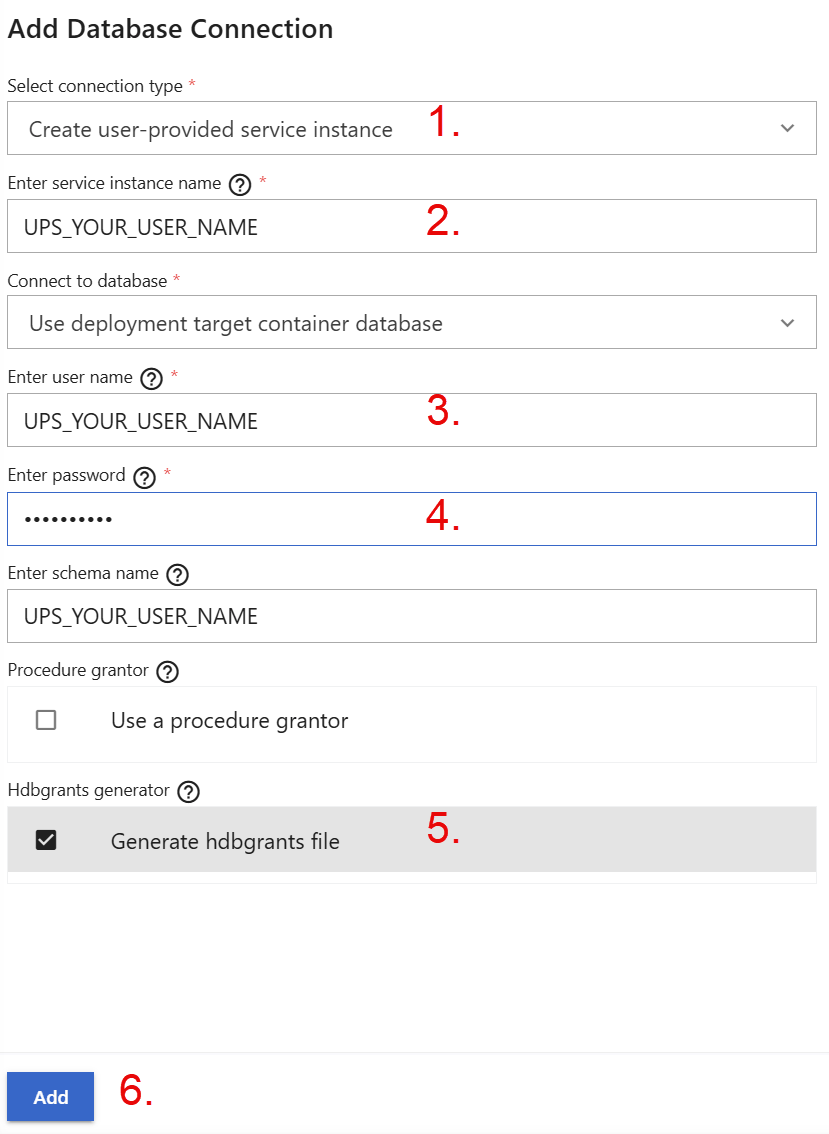
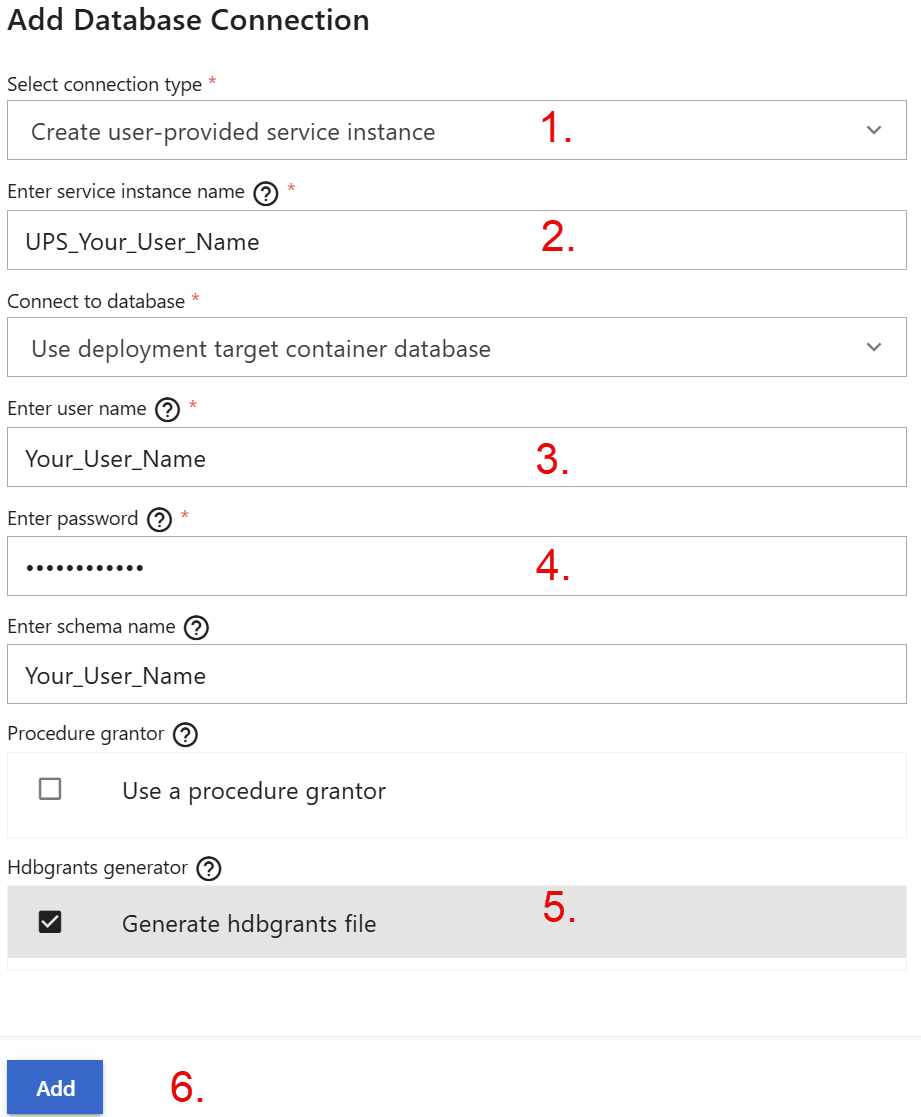
small corrections

diff --git a/exercises/ex1/README1.1.md b/exercises/ex1/README1.1.md
@@ -4,9 +4,10 @@
 
 A developer space is the environment in which you will develop objects and that you can customize to your needs. To start developing thus create a developer space first.
 
-*Create a SAP HANA Native Application dev space DevSpace_\<your user name\> under \<todo\ https://sap-core-ai-chatbot-eu10-eqvsquev.eu10cf.applicationstudio.cloud.sap/index.html?externalRedirect=true> and start it*
+*Create a SAP HANA Native Application dev space DevSpace_\<your user name\> [https://sap-build-hana-cloud.eu10cf.applicationstudio.cloud.sap/index.html](https://sap-build-hana-cloud.eu10cf.applicationstudio.cloud.sap/index.html) and start it*
 
-- Browser Chrome enter: \<todo\https://sap-core-ai-chatbot-eu10-eqvsquev.eu10cf.applicationstudio.cloud.sap/index.html?externalRedirect=true> to navigate to the dev space management
+- In Browser Chrome enter: [https://sap-build-hana-cloud.eu10cf.applicationstudio.cloud.sap/index.html](https://sap-build-hana-cloud.eu10cf.applicationstudio.cloud.sap/index.html)] to navigate to the dev space management
+
 - Click on button **Create Dev Space** to create a Dev Space:
 
     ![create dev space](../screenshots/createProject/createDevSpace.png)
@@ -63,11 +64,15 @@ Before you can model a calculation view you need to create a project in which yo
 
 - When asked to sign-in into Cloud Foundry:
 
-    - Ensure that the Cloud Foundry Endpoint is https://api.cf.eu10-005.hana.ondemand.com (1.) todo
+    - Ensure that the Cloud Foundry Endpoint is [https://api.cf.eu10-005.hana.ondemand.com](https://api.cf.eu10-005.hana.ondemand.com) (1.) 
 
     - Click on the URL (2.):
 
         ![sign in to Cloud Foundry](../screenshots/createProject/signInCF.png)
+
+    - Enter *academy-eu-platform* as the identity provider and choose *Sign in with alternative identity provider*.
+
+        ![choose identity provider](../screenshots/createProject/chooseIdentityProvider.png)
     
     - Copy the authentication code in the newly opened tab:
 
@@ -109,10 +114,7 @@ By default a project has only access to its own objects. If objects from outside
 
     - Choose *Create user-provided service instance* (1.)
     - Enter *UPS_\<your user name \>* as service instance name (2.)
-    - Enter *UPS_\<your user name \>* also as the database user (3.) (todo: create users: create user UPS_yourUserName password "...";
-alter user UPS_yourUserName disable password lifetime;
-grant select on schema TECHED2026_DA264 to UPS_yourUserName with GRANT OPTION;)
-
+    - Enter *\<your user name \>* as the database user (3.)
     - As password enter the password from the flipchart (4.)
     - Choose to generate the .hdbgrants file (5.)
     - Press "Add" to accept the specifications (6.)
